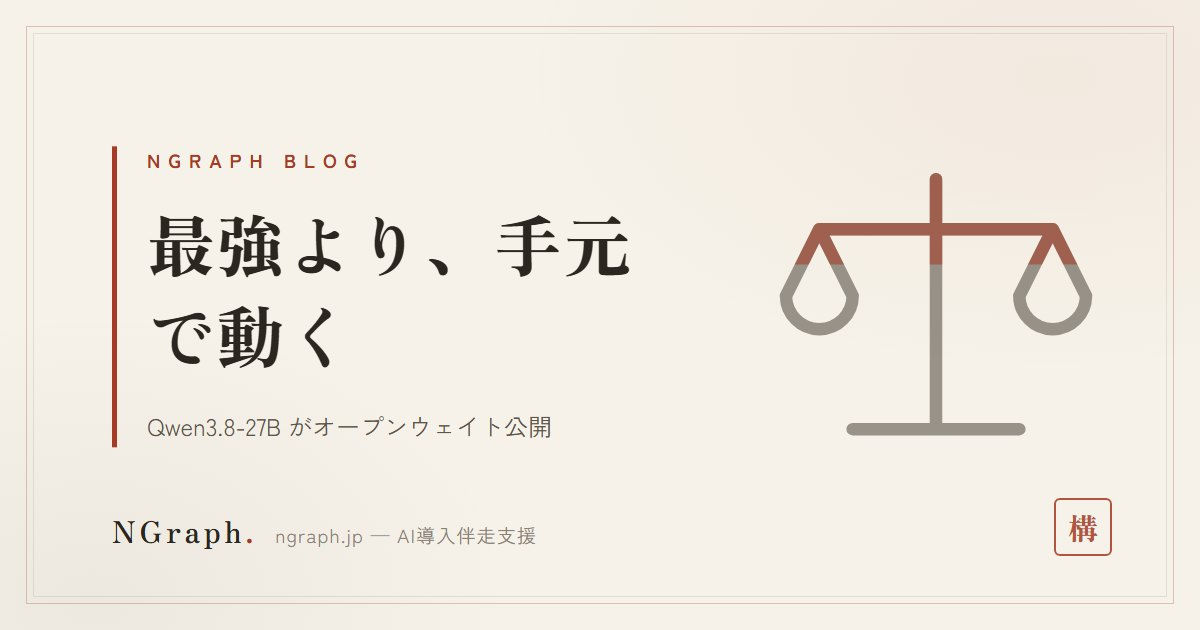
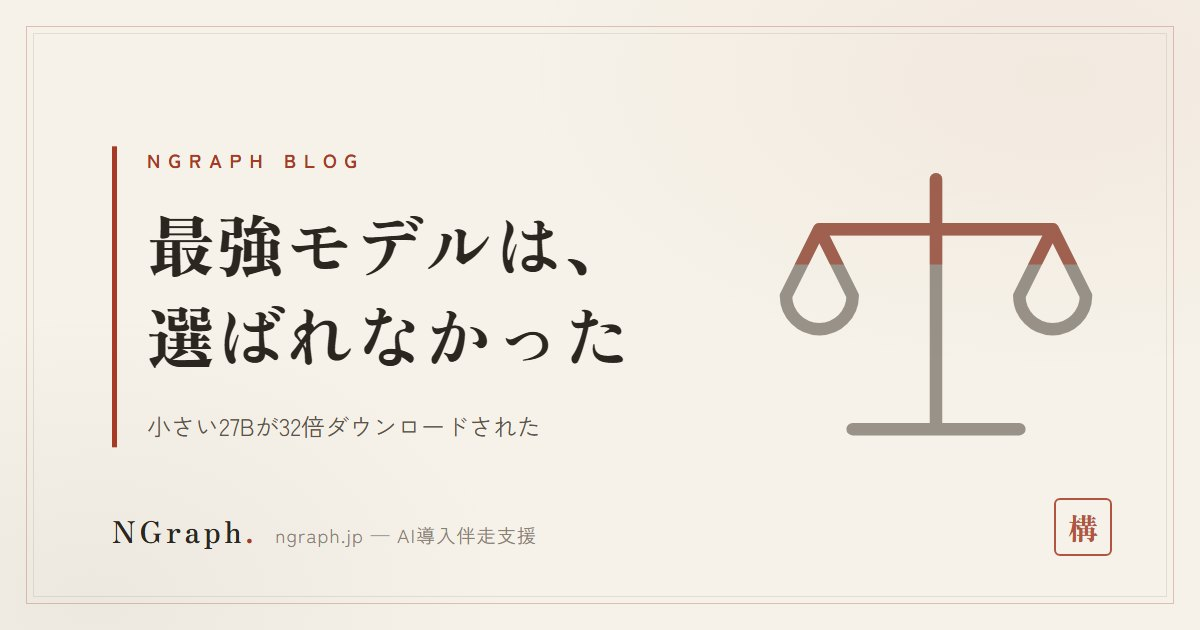
表紙を作り直し（主語の無い「最強より、手元で動く」→「最強モデルは、選ばれなかった」）
髙橋さん指摘「この表紙の文言どうなってるの。これ意味不明だし何にも魅力的じゃないな」。
BLOG-OPS §3「表紙の主張には主語を入れる」を前日8/16に入れたばかりで、翌日の朝記事で
破っていた。記事の一番強い数字「32倍」も表紙に載っていなかった。

再発防止: 主語の有無を助詞で機械判定する案を記録26件で実測したところ誤検知3割
（「最低賃金2026、いつから・いくら」等は主語の助詞が無くても表紙として成立）。
判定は不成立と確定し、代わりに eyecatch_text_check.py が表紙の文言を
テキストで記事タイトルと並べて出すようにした（gate経由・report-only）。
画像を目視すると絵と級数は見るが文言は読み飛ばす、が原因だったため。

Changed region(s): [[0.1233, 0.4825, 0.5242, 0.6032], [0.2467, 0.3317, 0.5242, 0.4524], [0.1233, 0.6635, 0.4625, 0.6937]]

diff --git a/scripts/eyecatch_text_check.py b/scripts/eyecatch_text_check.py
@@ -94,7 +94,40 @@ def main():
 
     print("OK: 表紙の文言 %d件を記事タイトルと照合（未記録の既存記事 %d件は対象外）"
           % (len(files) - len(unrecorded), len(unrecorded)))
+    show_wording(data)
     return 0
+
+
+def show_wording(data):
+    """公開する記事の表紙の文言を、画像ではなくテキストで出す（report-only・2026-08-17新設）。
+
+    なぜ入れたか〔髙橋さん 2026-08-17「この表紙の文言どうなってるの。これ意味不明だし
+    何にも魅力的じゃないな」〕: `20260817-qwen-27b-local` の表紙が「最強より、手元で動く」＝
+    主語が無く、表紙だけ見ても何の話か分からない状態で公開されていた。BLOG-OPS §3 の
+    「表紙の主張には主語を入れる」は前日（8/16）に本人指摘で入れたばかりのルールで、
+    防波堤は「生成前にこの行を読むことと、目視」だけだった。**画像を目視すると、絵と級数は
+    見るが文言は読み飛ばす。** だから文言そのものをテキストで、記事タイトルと並べて出す。
+
+    主語の有無を機械で判定しようとしたが、記録26件で実測したところ助詞（は/が/も）を
+    持たない表紙が7件あり、うち「最低賃金2026、いつから・いくら」「取引先を3分で裏取りする」
+    「いいね40個 ＝ リンクコピー1個」は表紙として成立していた（誤検知が3割近い）。
+    よって**判定はしない。読む機会を強制するだけ**にしてある（BLOG-OPS §3 の
+    「雑な検査は誤検知で運用を止める」に従う）。
+    """
+    if len(sys.argv) < 2:
+        return
+    slug = os.path.basename(sys.argv[1])
+    slug = slug[:-5] if slug.endswith(".html") else slug
+    rec = data.get(slug)
+    if not rec:
+        return
+    title = (rec.get("title") or "").replace("{nb}", "").replace("{/nb}", "")
+    print("表紙の文言（目で読んで判断する。機械は判定しない）:")
+    print("  主張: 「%s」" % title)
+    print("  サブ: 「%s」" % (rec.get("sub") or ""))
+    print("  記事: %s" % (rec.get("article_h1") or ""))
+    print("  問い: ①主語があるか（「AIは」「Qwenは」…体言止めの標語にしない）")
+    print("        ②表紙だけ見て何の話か分かるか ③記事の一番強い数字が載っているか")
 
 
 if __name__ == "__main__":

diff --git a/scripts/gate.py b/scripts/gate.py
@@ -36,7 +36,7 @@ CHECKS = [
     ("かっこ書きの多用（読みにくさ）", "paren_lint.py", [], False),
     ("読みにくさ（長い文・言い回しの反復・抽象語）", "readability_lint.py", [], False),
     ("アイキャッチの本文と図案の重なり", "eyecatch_check.py", [], False),
-    ("表紙の文言と記事タイトルのズレ", "eyecatch_text_check.py", [], False),
+    ("表紙の文言と記事タイトルのズレ", "eyecatch_text_check.py", [], True),
     ("記事の再確認期限（鮮度）", "freshness_check.py", [], False),
     ("型（朝A/夕B/ガイドG・字数・H2・ラベル・枠の重複）", "format_lint.py", [], False),
     ("図のブロックの二重包み", "fig_lint.py", [], False),
